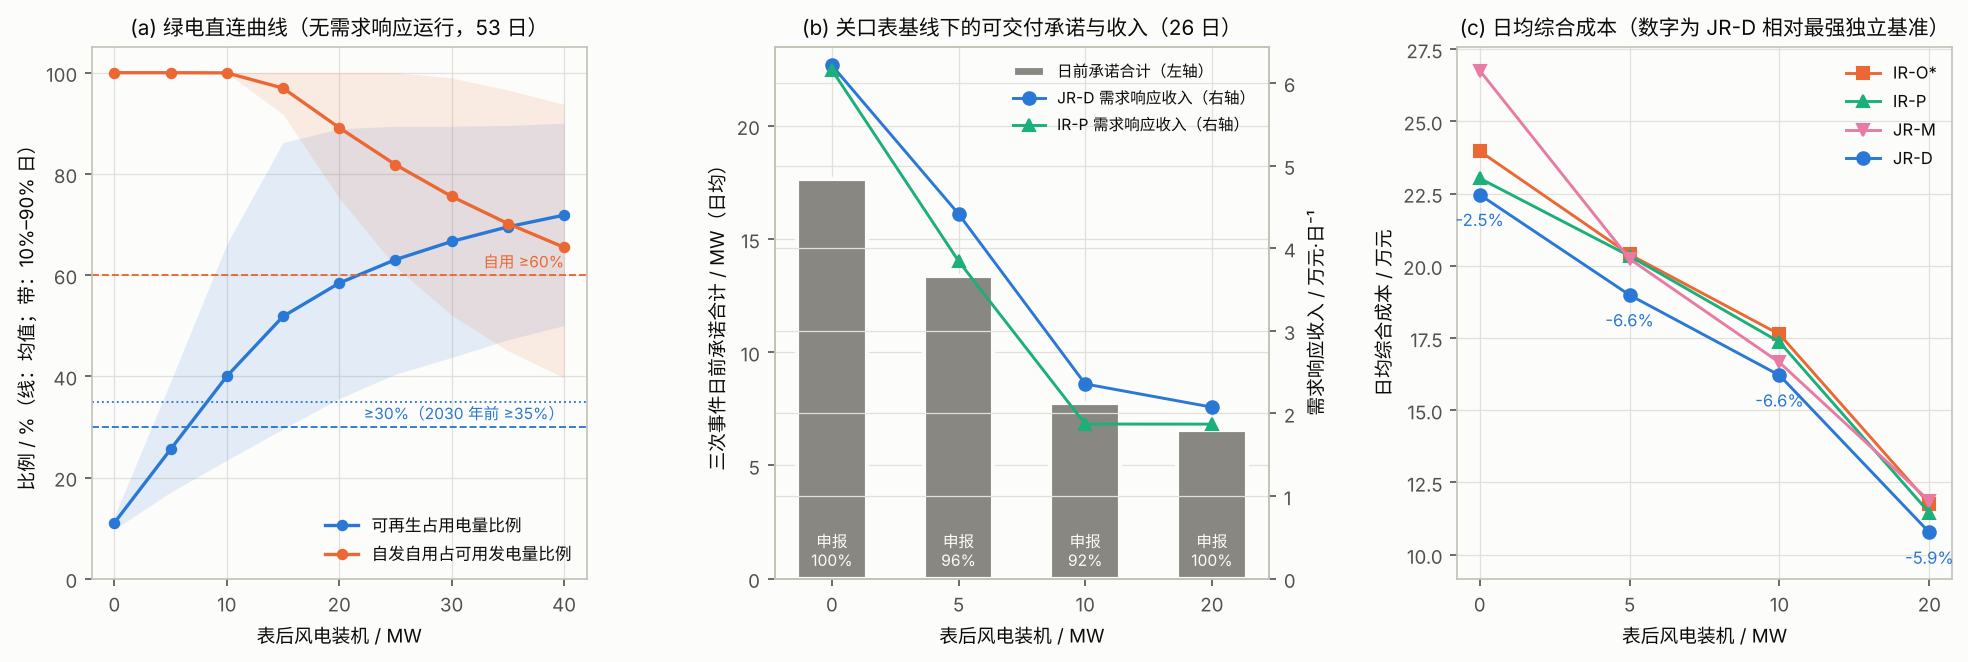
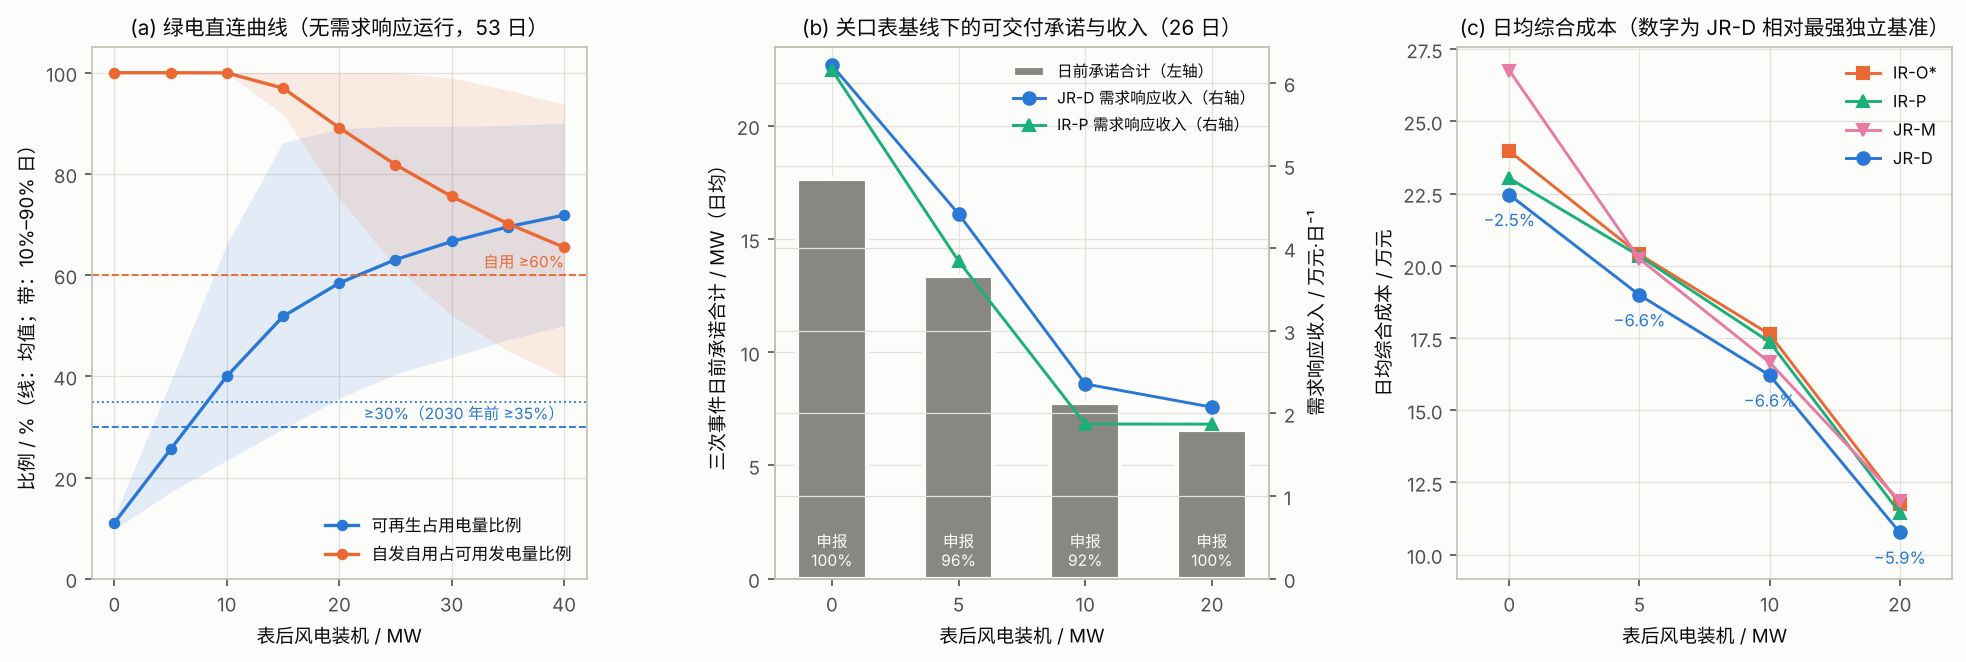
English figures 22-26, assembled paper document (tools/assemble_paper.py), handover and progress notes
Claude-Session: https://claude.ai/code/session_0173EWkv7nAjgEuhNTshh9Dg

diff --git a/tools/plot_results.py b/tools/plot_results.py
@@ -202,6 +202,23 @@ ZH2EN = {
     "日前承诺 / MW": "Day-ahead commitment / MW", "(f) 各场景设定下的日前承诺": "(f) Day-ahead commitments per scenario setting",
     # generic fragments
     "万元": "10⁴ CNY", "元/MWh": "CNY/MWh", "元/(GPU·h)": "CNY/(GPU·h)", "元/kWh": "CNY/kWh", "元/kW": "CNY/kW", "本文": "proposed",
+    "(a) 暂停/恢复开销与多档功率封顶": "(a) Pause / resume overhead and power-capping levels",
+    "(b) 场景生成（夏季，52 个样本外日）": "(b) Scenario generation (summer, 52 out-of-sample days)",
+    "(c) 季节漂移（冬季日，26 个样本外日）": "(c) Seasonal drift (winter day, 26 out-of-sample days)",
+    "(d) 各场景设定下的日前承诺": "(d) Day-ahead commitments of each setting",
+    "26 个运行日平均综合成本 / 万元": "Mean total cost over 26 days / 10⁴ CNY", "JR-D 相对最强基准": "JR-D vs best IR",
+    "样本内低估": "In-sample underestimate", "样本外成本相对 ": "Out-of-sample cost vs ",
+    " 的差 / %（JR-D 运行，95% 置信区间）": " / % (operated by JR-D, 95 % CI)",
+    "(a) 绿电直连曲线（无需求响应运行，53 日）": "(a) Green-power curve (no DR, 53 days)",
+    "(b) 关口表基线下的可交付承诺与收入（26 日）": "(b) Commitments and DR revenue (26 days)",
+    "(c) 日均综合成本（数字为 JR-D 相对最强独立基准）": "(c) Mean daily cost (labels: JR-D vs best IR)",
+    "三次事件日前承诺合计 / MW（日均）": "Day-ahead commitments, sum of 3 events / MW (daily mean)",
+    "IR-P 需求响应收入（右轴）": "IR-P DR revenue (right axis)", "JR-D 需求响应收入（右轴）": "JR-D DR revenue (right axis)",
+    "≥30%（2030 年前 ≥35%）": "≥30 % (≥35 % until 2030)", "可再生占用电量比例": "Renewable share of consumption",
+    "日前承诺合计（左轴）": "Day-ahead commitments, sum (left axis)", "日均综合成本 / 万元": "Mean daily total cost / 10⁴ CNY",
+    "比例 / %（线：均值；带：10%–90% 日）": "Share / % (line: mean; band: 10–90 % of days)", "申报": "declared",
+    "自发自用占可用发电量比例": "Self-use share of available generation", "自用 ≥60%": "Self-use ≥60 %",
+    "表后风电装机 / MW": "Behind-the-meter wind capacity / MW", "需求响应收入 / 万元·日⁻¹": "DR revenue / 10⁴ CNY per day",
     "积压": "backlog", "承诺": "commitment", "（": " (", "）": ")", "，": ", ", "：": ": ", "；": "; ",
 }
 _ZH_KEYS = sorted(ZH2EN, key=len, reverse=True)

diff --git a/tools/assemble_paper.py b/tools/assemble_paper.py
@@ -1,0 +1,36 @@
+#!/usr/bin/env python3
+"""Rebuild docs/论文主要思路.md from the four drafts in docs/修订稿草稿/.
+
+Edit the drafts, then run `python3 tools/assemble_paper.py`. The title block and figures 0a/0b at the top of the
+assembled document (everything before "## 摘要") are kept; then come the abstract (end of draft 2), sections 1-5
+(draft 1), sections 6-7 (draft 2), section 8 with references and appendix A (draft 3) and appendix B (draft 4).
+"""
+import os
+
+DOCS = os.path.join(os.path.dirname(os.path.abspath(__file__)), "..", "docs")
+DRAFTS = os.path.join(DOCS, "修订稿草稿")
+OUT = os.path.join(DOCS, "论文主要思路.md")
+
+
+def read(name):
+    with open(os.path.join(DRAFTS, name), encoding="utf-8") as f:
+        return f.read().strip()
+
+
+def strip_rule(text):
+    text = text.rstrip()
+    while text.endswith("---"):
+        text = text[:-3].rstrip()
+    return text
+
+
+p1, p2, p3, p4 = (read(n) for n in ["1_第1-5节.md", "2_第6-7节与摘要.md", "3_第8节_参考文献_附录A.md", "4_附录B_修改对照.md"])
+i = p2.index("## 摘要")
+sec67, abstract = strip_rule(p2[:i]), p2[i:].strip()
+with open(OUT, encoding="utf-8") as f:
+    cur = f.read()
+header = strip_rule(cur[:cur.index("## 摘要")])
+doc = "\n\n---\n\n".join([header, abstract, strip_rule(p1), sec67, strip_rule(p3), p4]) + "\n"
+with open(OUT, "w", encoding="utf-8") as f:
+    f.write(doc)
+print(f"wrote {OUT} ({len(doc)} characters)")

diff --git a/docs/交接文档.md b/docs/交接文档.md
@@ -17,11 +17,12 @@
 ## 一、现状
 
 - **审稿意见第一部分（除 6f 外）与 AE 对标的 P0、P1 清单已全部完成**：代码、理论、正式实验、图件（中英文）、论文修订稿与 README 均已推送。
-- **论文主文档：** [`论文主要思路.md`](论文主要思路.md)，由 `修订稿草稿/` 的四个部分合并而成。第 6–7 节与摘要已按正式结果写完；以后改动请先改草稿，再重新合并。
+- **论文主文档：** [`论文主要思路.md`](论文主要思路.md)，由 `修订稿草稿/` 的四个部分合并而成。第 6–7 节与摘要已按正式结果写完；以后改动请先改草稿，再用 `python3 tools/assemble_paper.py` 重新合并。
 - **独立基准已修正（重要）。** IR-O\*/IR-P 的 IT 功率预算计入燃气内燃机可调出力（`par.bench.it_gas = 'available'`）。全部相关实验已按新代码重跑，结果在 `matlab/results/`，控制台日志为 `run_output_*.txt`。
 - **审稿意见 6f 与 AE 清单 P2 已完成（2026-10-24）：**
-  - Acme 大模型开发轨迹（CC BY 4.0）与作业级仿真器；新增可选的**刚性补算约束**（`par.it.rec_tau`）。作业级验证表明，流体模型对刚性长作业的补算过于乐观，加上该约束后计划可执行，联合恢复在作业级的优势扩大（6.13 节）。
-  - 风电/绿电直连（`par.wind`）、多档功率封顶与暂停/恢复开销（`par.it.cap_loss`、`par.it.pause_ovh_h`）、K-means 联合场景与季节漂移检验、山脊图（6.14–6.16 节，图 22–25）。
+  - Acme 大模型开发轨迹（CC BY 4.0）与作业级仿真器；新增可选的**刚性补算约束**（`par.it.rec_tau`）。作业级验证表明，流体模型对刚性长作业的补算过于乐观，加上该约束后计划可执行（JR-D 三次全有效：Acme 98%、PAI 86.5%），联合恢复在作业级仍比最强独立基准低 3.0%–5.0%（6.13 节）。
+  - 风电/绿电直连（`par.wind`；实验 21 另用 `par.dr.relax_invalid`、`par.dr.exempt_zero` 与固定并网容量）、多档功率封顶与暂停/恢复开销（`par.it.cap_loss`、`par.it.pause_ovh_h`）、K-means 联合场景与季节漂移检验、山脊图（6.14–6.16 节，图 22–26）。
+  - 本轮还修正了三个问题：glpk 退化 LP 的确定性循环（迭代上限）、物理层弃光后未重算购电（匿名函数冻结了光伏值）、风电实验的设置（见第五节第 14 条）。
   - 所有新功能默认关闭，基准结果不变（`tests/test_policy.m`、`tests/test_jobsim.m`）。
 - **仍未做（可选）：** 余热回收热泵对外供热的冬季算例。
 
@@ -44,7 +45,7 @@
 | 模型 | 作业级仿真器（整组刚性作业、松弛度优先、检查点/重启开销、最短暂停）及重新结算 | `src/job_gen.m`、`src/job_replay.m`、`src/job_settle.m` |
 | 模型 | 刚性补算约束、暂停/恢复开销、多档封顶（凸分段线性）、表后风电、K-means 场景 | `src/build_model.m`、`build_compute_model.m`、`plant_step.m`、`cap_curve.m`、`load_inputs.m`、`kmeans_scen.m` |
 | 实验 | 19 负荷与恢复模型（作业级重放）、20 作业组合与开销、21 风电、22 暂停开销与多档封顶、23 场景生成 | `matlab/experiments/` |
-| 图 | 图 22 作业级验证、图 23 作业组合与开销、图 24 山脊图、图 25 扩展实验 | `tools/plot_results.py` |
+| 图 | 图 22 作业级验证、图 23 作业组合与开销、图 24 山脊图、图 25 暂停开销/多档封顶与场景生成、图 26 绿电直连风电 | `tools/plot_results.py` |
 | 文档 | 符号表、算法 1、分组参数表、扩展工况、贡献与局限更新 | `修订稿草稿/1_第1-5节.md`、`3_…md` |
 
 ## 三、怎样复现与收尾
@@ -85,6 +86,10 @@ python3 tools/draw_diagrams.py && python3 tools/draw_diagrams.py --en
 - **承诺：** 耦合承诺 + 联合恢复相对“单事件评估 + 独立恢复”低 12.6%。δ≈1.2 的分布鲁棒承诺在样本外同时降低均值与尾部成本。
 - **稳健性：** 五种电价形态（−2.1% 至 −2.9%）、苏州冬季与贵安夏季（−2.6% 至 −2.8%）、液冷（−7.4%）、机房热惯性（闭环 −2.2%）下结论不变。IT 或联络线爬坡限制会压缩联合恢复的空间。
 - **逾期：** 只有两处轻微逾期，均不超过 4 GPU·h·h：JR-M 在 1 个运行日；JR 在“3 MWh 电池 + 8 MW 承诺”这一超出其可靠容量的工况。
+- **作业级验证（6.13 节）：** 流体模型的计划在作业级大量失效（PAI 负荷下任何策略三次全有效的天数 ≤8%）；加刚性补算约束后 JR-D 为 98%（Acme）/ 86.5%（PAI），作业级成本仍比最强独立基准低 3.0%–5.0%。暂停/重启开销使日成本增加 2%–4%。
+- **绿电直连风电（6.14 节）：** 20 MW 风电时 94% 的日子同时满足 650 号文两项比例；按关口表计量的基线使日前承诺下降 63%，联合恢复的成本优势扩大到 5.9%–6.6%。
+- **暂停开销与多档封顶（6.15 节）：** 开销使成本上升 3%–7%，独立基准可靠性下降更快；封顶使联合恢复优势扩大到 4.5%–4.8%，三档只比单档多降 0.2%。
+- **场景生成（6.16 节）：** 分位、K-means、分布鲁棒与季节漂移的样本外成本相差 ≤0.35%；样本内估计偏乐观 6%–14%。
 
 ## 五、注意事项（踩过的坑）
 

diff --git a/docs/修改进度.md b/docs/修改进度.md
@@ -52,9 +52,9 @@
 
 | 编号 | 内容 | 状态 | 产出位置 |
 |---|---|---|---|
-| M5 | 绿电直连风电（发改能源〔2025〕650 号；如东海上 ERA5 风速 + IEA 15 MW 功率曲线） | ✅ 6.14 节 | `data_prep/fetch_wind.py`、`src/load_inputs.m`（`par.wind`）、`experiments/exp21_wind.m` |
-| M6 | 多档功率封顶（凸分段线性，透视函数精确线性化）+ 暂停/恢复开销 | ✅ 6.15 节 | `src/cap_curve.m`、`src/build_model.m`、`src/build_compute_model.m`、`src/plant_step.m`、`experiments/exp22_overhead.m` |
-| A3 | K-means 联合场景（不均匀概率）+ 季节漂移检验 | ✅ 6.16 节 | `src/kmeans_scen.m`、`src/make_scen.m`、`experiments/exp23_scenarios.m` |
+| M5 | 绿电直连风电（发改能源〔2025〕650 号；如东海上 ERA5 风速 + IEA 15 MW 功率曲线） | ✅ 6.14 节、图 26 | `data_prep/fetch_wind.py`、`src/load_inputs.m`（`par.wind`）、`experiments/exp21_wind.m` |
+| M6 | 多档功率封顶（凸分段线性，透视函数精确线性化）+ 暂停/恢复开销 | ✅ 6.15 节、图 25a | `src/cap_curve.m`、`src/build_model.m`、`src/build_compute_model.m`、`src/plant_step.m`、`experiments/exp22_overhead.m` |
+| A3 | K-means 联合场景（不均匀概率）+ 季节漂移检验 | ✅ 6.16 节、图 25b–d | `src/kmeans_scen.m`、`src/make_scen.m`、`experiments/exp23_scenarios.m` |
 | — | 52 天分布山脊图（图 7 升级） | ✅ 图 24 | `tools/plot_results.py` |
 
 ## 进度日志
@@ -101,4 +101,5 @@
   - **求解器：** glpk 的原始单纯形在少数预处理后的退化 LP 上会确定性地循环（刚性约束与暂停开销下更常见）。第一次求解设迭代上限 max(5000, 10(n+m)) 与时限，失败后先关闭预处理、再改用内点法重解；与原结果逐位相同。MPC 中 MILP 限时 30 s，日前模型限时 300 s。
   - **物理层修正：** 购电低于下限（1.5 MW，防逆功率）时，原代码把购电写成匿名函数，弃光后没有重算购电，弃掉的电量“消失”；表后风电很大时可再生利用量甚至为负。已修正，并改为先在爬坡范围内压低燃气机、再弃光弃风。主实验只在极少数时段触发（48 条案例日序列中 1 个时段，0.017 MW），JR-D 案例日成本逐位不变，未重跑。
   - **风电建模（实验 21）：** 并网容量固定在无风电时的值；风电日前预测为实际出力叠加 AR(1) 误差（均方根 15% 装机），场景为围绕预测的误差路径；每个运行日按当日预测重求日前承诺；放弃事件时放松规划模型的事件约束；确认承诺为 0 的事件不考核。第一次运行（无这些修正）在 40 MW 时日前模型不可行而中止。
-  - 新实验 19–23，新图 22–25（含英文版），冒烟测试 `tests/test_jobsim.m`。
+  - 新实验 19–23，新图 22–26（含英文版），冒烟测试 `tests/test_jobsim.m`。全部实验已完成，6.13–6.16 节、结论与中英文摘要已按正式结果写完；`论文主要思路.md` 由 `python3 tools/assemble_paper.py` 从四份草稿重新合并。
+  - 尚未做（可选）：余热回收热泵对外供热的冬季算例。
